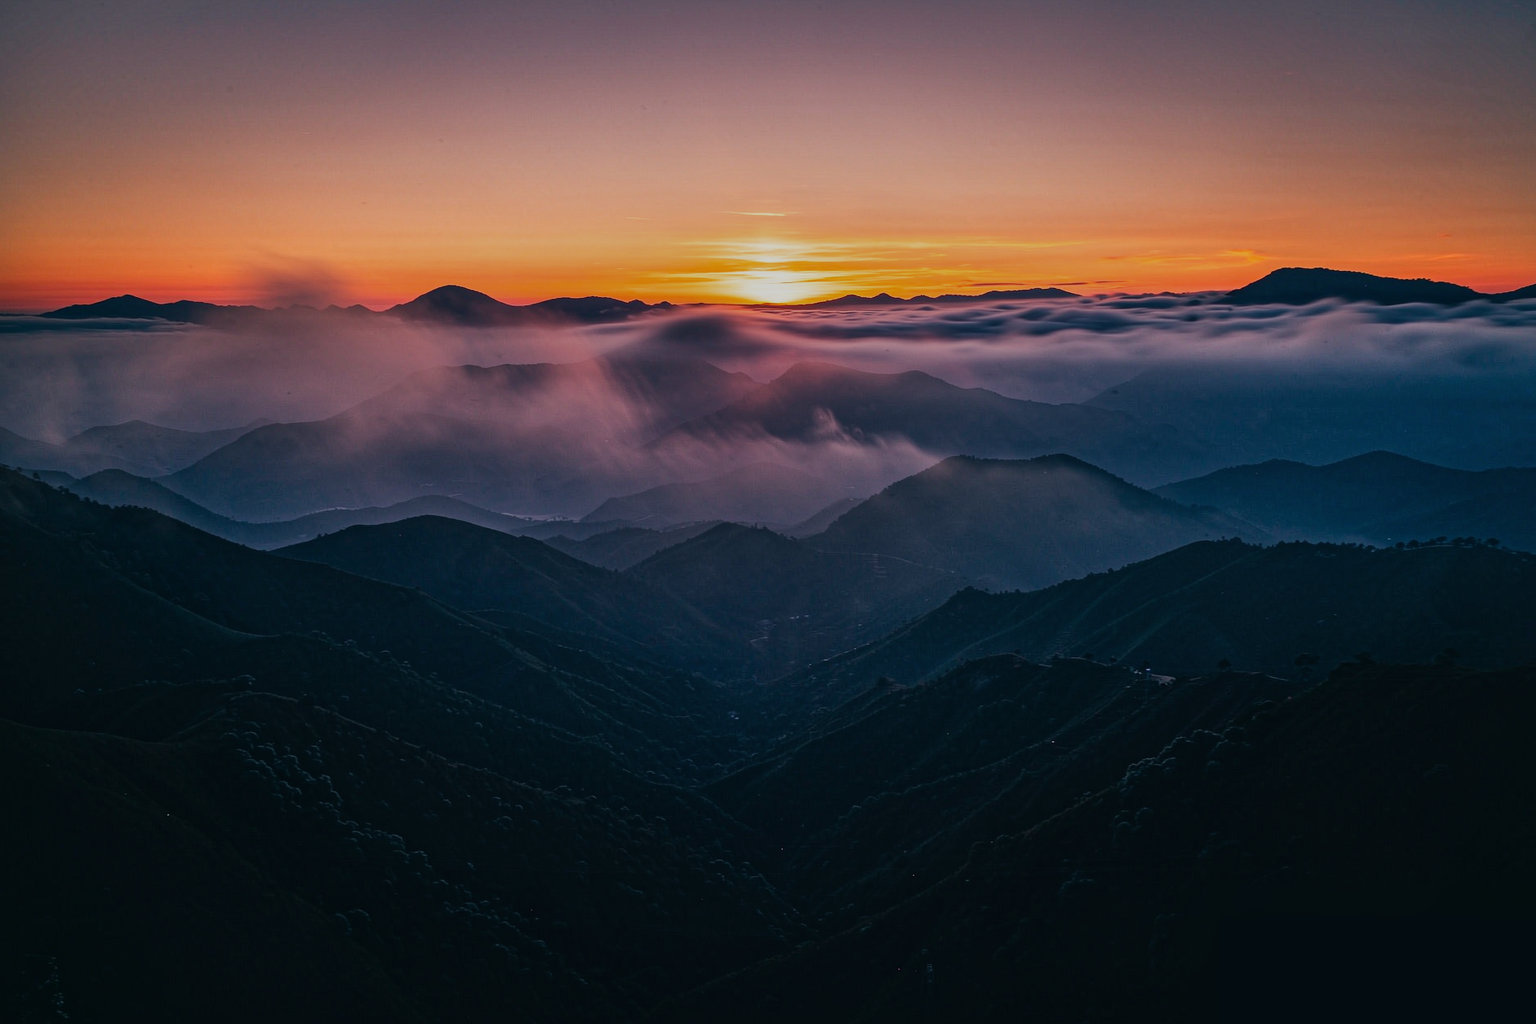
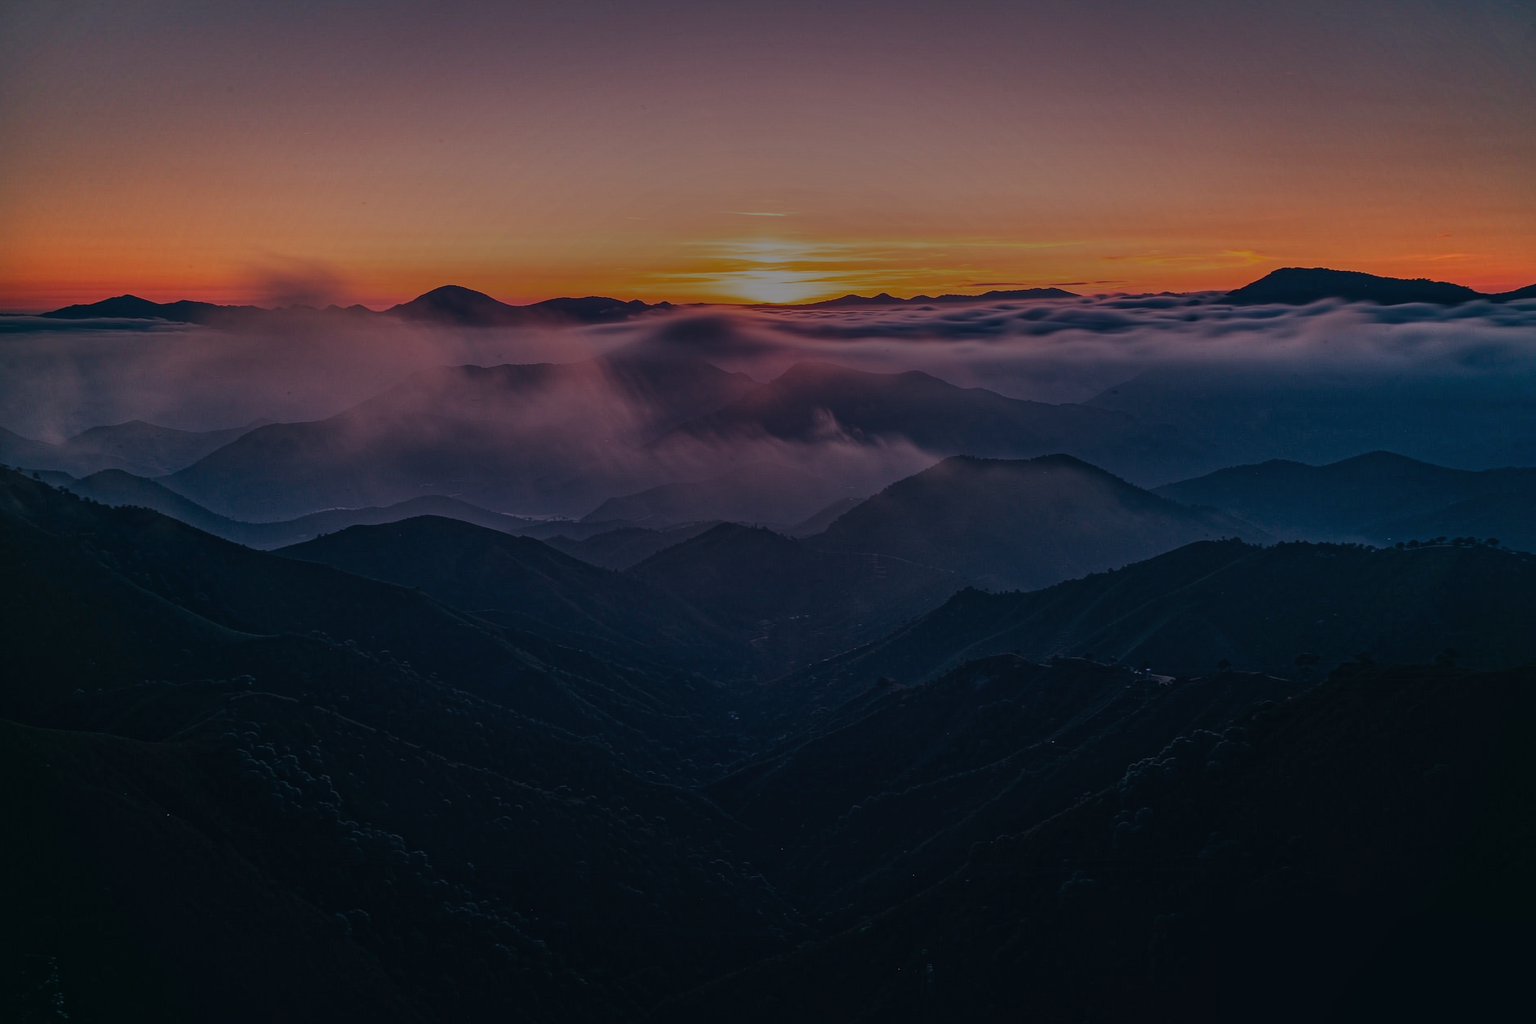
fix(assets): 火场景 AI 底图 v2 — 小火堆居中+水印去除
- bonfire_ai_1.png → bonfire.png (去水印, 1536x1024)
- 小火堆居中, 四周留暗保对比度护栏
- 修正 forest/mountain ai_base 路径指向最终文件

Changed region(s): [[0.0312, 0.0, 0.9688, 0.5312], [0.3438, 0.5, 0.375, 0.5312]]

diff --git a/tools/export-scenes.py b/tools/export-scenes.py
@@ -550,15 +550,15 @@ SCENES = [
     {
         "key": "bonfire",
         "name": "篝火",
-        # AI 生成底图 (元宝, 2026-08-04, 裁剪+压暗版): 写实篝火 + 白桦木堆。
-        # 裁剪后火焰偏右, 左侧留暗区; 整体压暗 60% 保对比度。
-        "ai_base": "bonfire_ai_cropped.png",
-        # 暗纱极强: 整个画面重度压暗, 只保留火焰辉光。
-        "veil": {"color": (0, 0, 0), "center": (0.5, 0.5), "radius": 0.80, "peak": 160},
+        # AI 生成底图 (元宝, 2026-08-04 v2): 写实篝火 + 白桦木 teepee。
+        # 小火堆居中, 四周留暗保对比度。
+        "ai_base": "bonfire.png",
+        # 暗纱: 火焰区域压暗, 保对比度护栏 (大字 ≥3:1)。
+        "veil": {"color": (0, 0, 0), "center": (0.5, 0.42), "radius": 0.70, "peak": 110},
         "palette": {
             "base": (26, 15, 10),
             "accent": (255, 159, 67),
-            "text_primary": (240, 230, 215),  # 恢复亮色文字
+            "text_primary": (240, 230, 215),
             "text_secondary": (195, 180, 165),
             "surface": ((0, 0, 0), 0.25),
             "surface_input": ((0, 0, 0), 0.38),
@@ -622,7 +622,7 @@ SCENES = [
         "name": "山",
         # AI 生成底图 (元宝, 2026-08-04): 写实山脊 + 云海 + 暖色落日。
         # 替换原程序化山脊; 动效 (mountain_intensity) 仍由运行时 shader 渲染。
-        "ai_base": "mountain_ai_clean.png",
+        "ai_base": "mountain.png",
         "veil": {"color": (15, 12, 28), "center": (0.5, 0.45), "radius": 0.60, "peak": 55},
         "palette": {
             "base": (86, 80, 115),
@@ -638,7 +638,7 @@ SCENES = [
         "name": "森林",
         # AI 生成底图 (元宝, 2026-08-04): 写实松林 + 晨雾 + 暖色天光。
         # 替换原程序化三角形树; 动效 (forest_mist) 仍由运行时 shader 渲染。
-        "ai_base": "forest_yuanbao_clean.png",
+        "ai_base": "forest.png",
         # 渐变/光晕/暗纱仍保留, 用于统一风格与对比度护栏。
         "stops": [
             (0.00, (168, 185, 171)),

diff --git a/examples/pomodoro/scenes.rs b/examples/pomodoro/scenes.rs
@@ -17,8 +17,8 @@ pub const SCENES: [SceneSpec; 6] = [
             text_secondary: Color::from_srgb8(195, 180, 165),
             surface: Color::rgba(0.0, 0.0, 0.0, 0.25),
             surface_input: Color::rgba(0.0, 0.0, 0.0, 0.38),
-            backdrop_light: Color::from_srgb8(70, 66, 63),
-            backdrop_dark: Color::from_srgb8(1, 4, 6),
+            backdrop_light: Color::from_srgb8(64, 66, 65),
+            backdrop_dark: Color::from_srgb8(3, 2, 1),
         },
     },
     SceneSpec {
@@ -59,8 +59,8 @@ pub const SCENES: [SceneSpec; 6] = [
             text_secondary: Color::from_srgb8(205, 198, 218),
             surface: Color::rgba(0.0, 0.0, 0.0, 0.25),
             surface_input: Color::rgba(0.0, 0.0, 0.0, 0.38),
-            backdrop_light: Color::from_srgb8(138, 106, 123),
-            backdrop_dark: Color::from_srgb8(3, 18, 27),
+            backdrop_light: Color::from_srgb8(109, 69, 81),
+            backdrop_dark: Color::from_srgb8(7, 16, 27),
         },
     },
     SceneSpec {
@@ -73,8 +73,8 @@ pub const SCENES: [SceneSpec; 6] = [
             text_secondary: Color::from_srgb8(186, 201, 187),
             surface: Color::rgba(0.0, 0.0, 0.0, 0.25),
             surface_input: Color::rgba(0.0, 0.0, 0.0, 0.38),
-            backdrop_light: Color::from_srgb8(118, 141, 134),
-            backdrop_dark: Color::from_srgb8(2, 13, 9),
+            backdrop_light: Color::from_srgb8(86, 103, 97),
+            backdrop_dark: Color::from_srgb8(4, 14, 10),
         },
     },
     SceneSpec {
